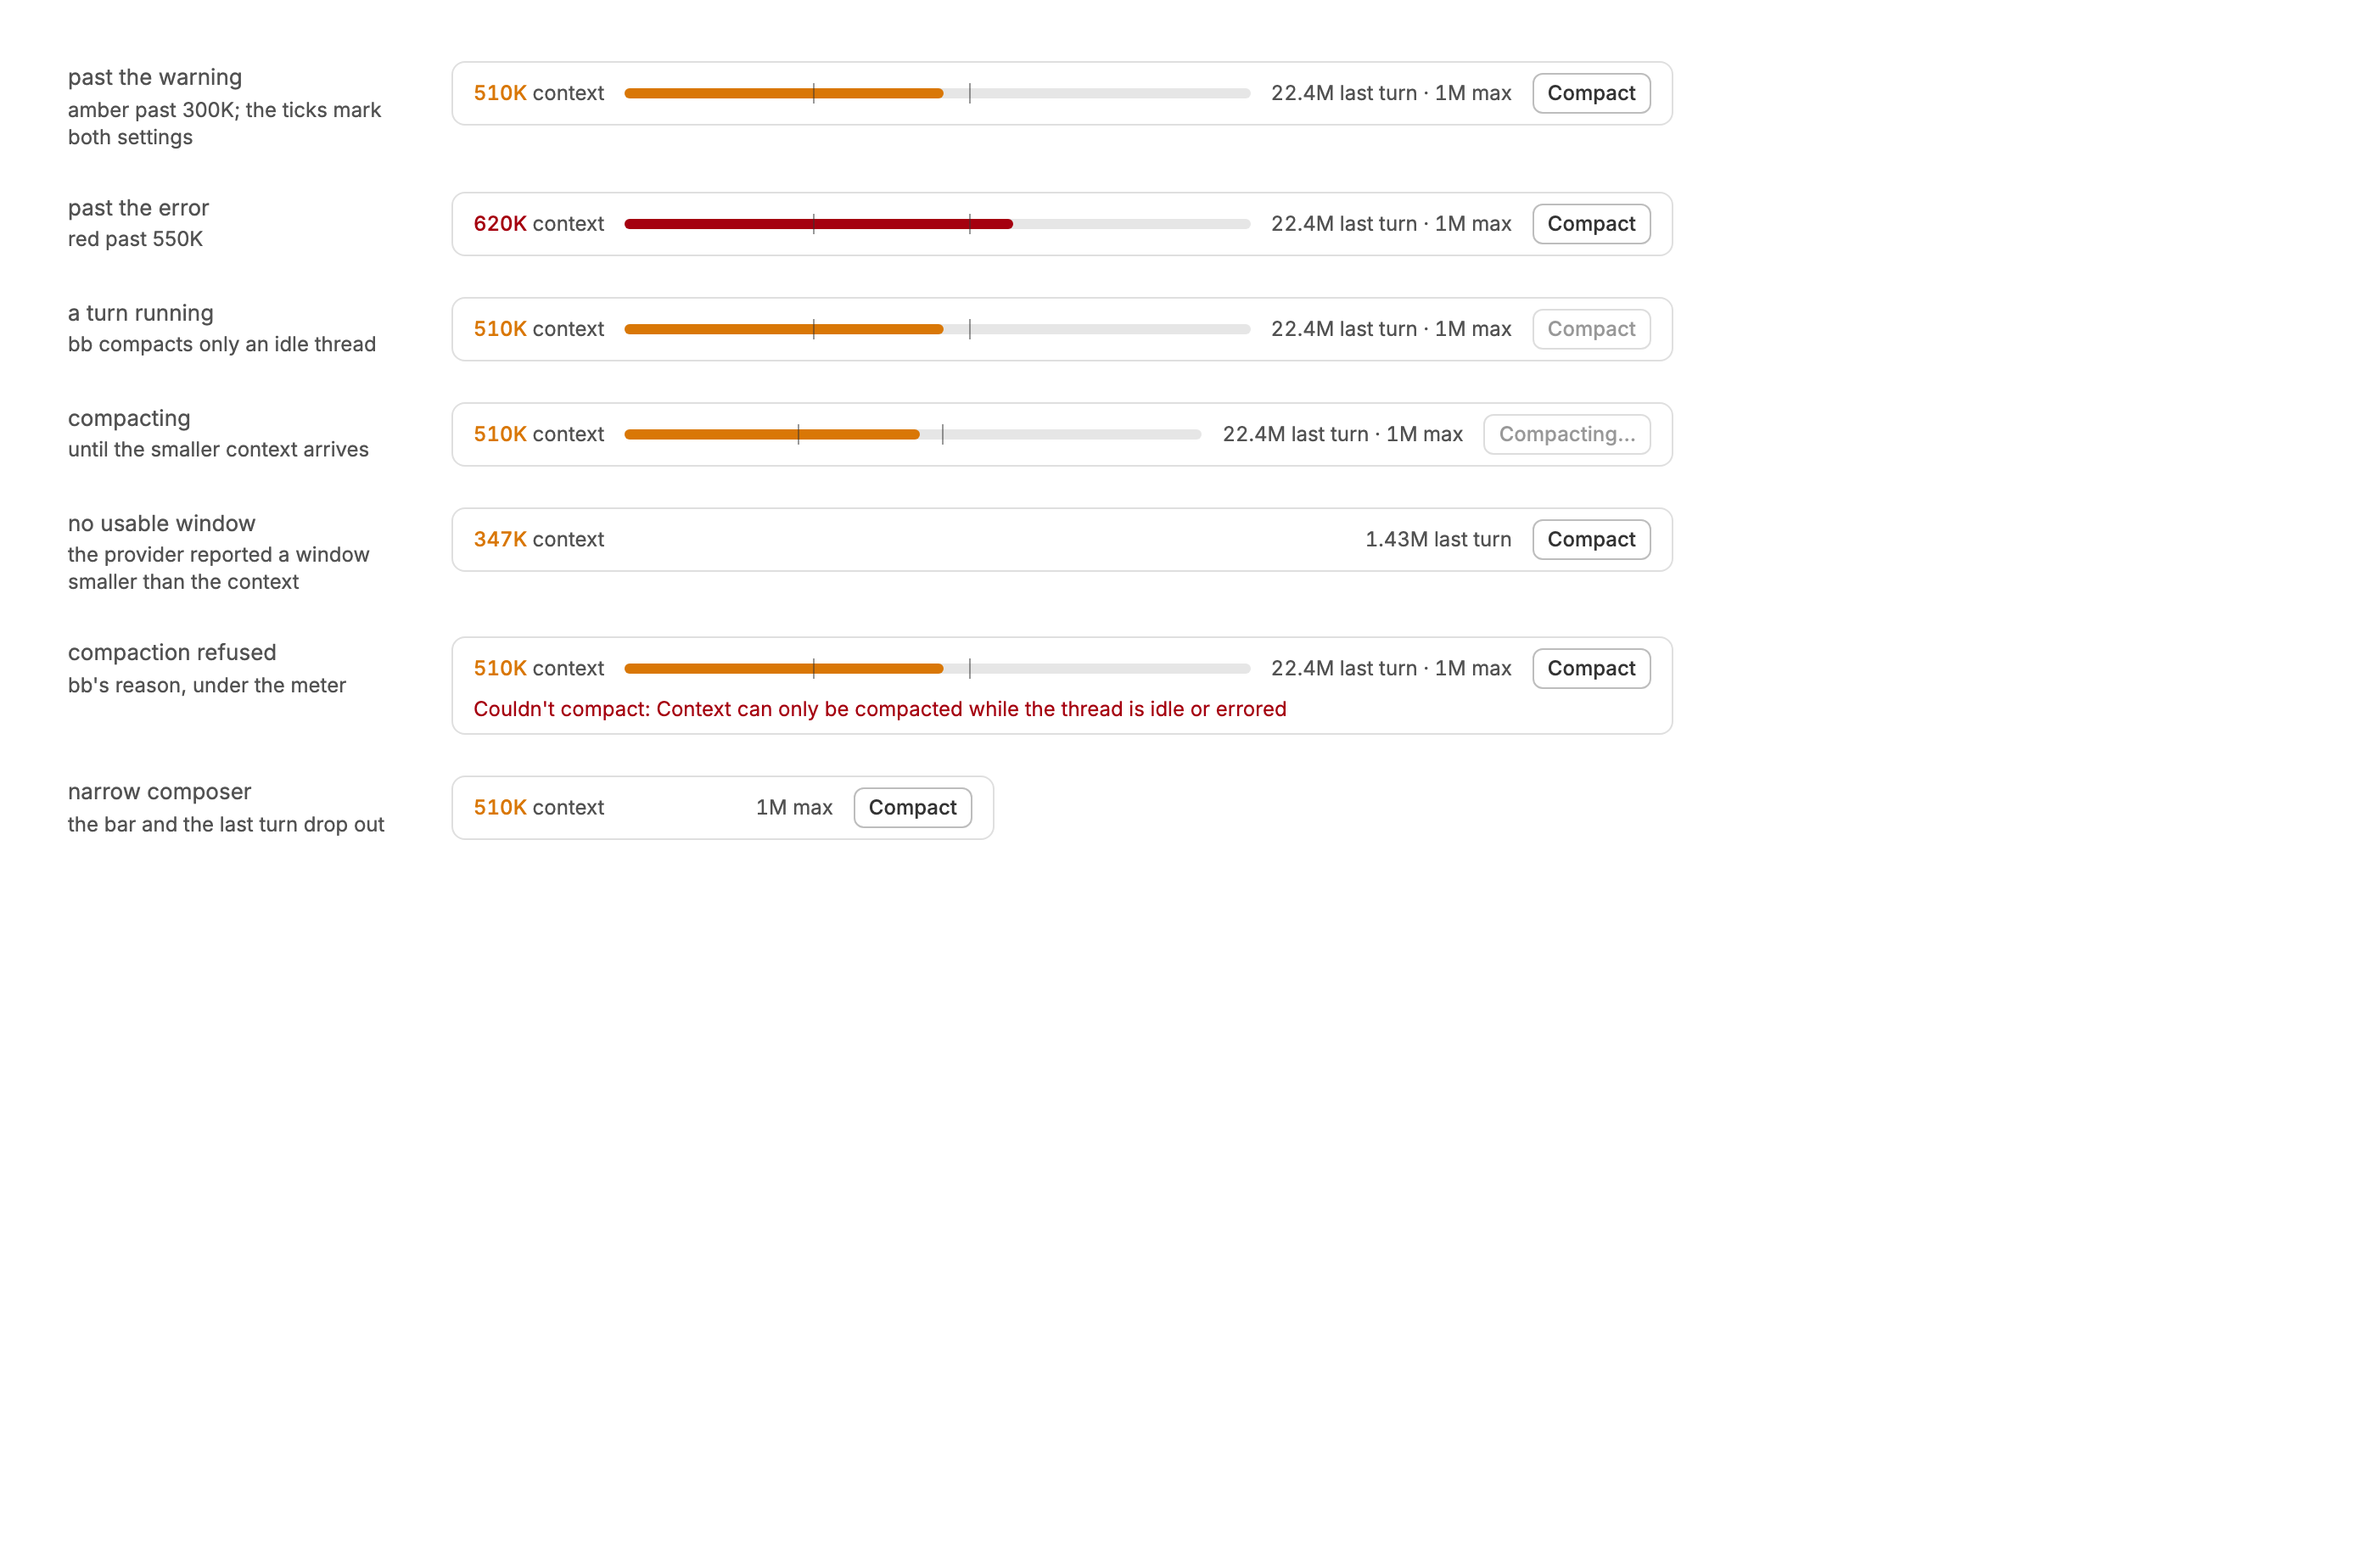
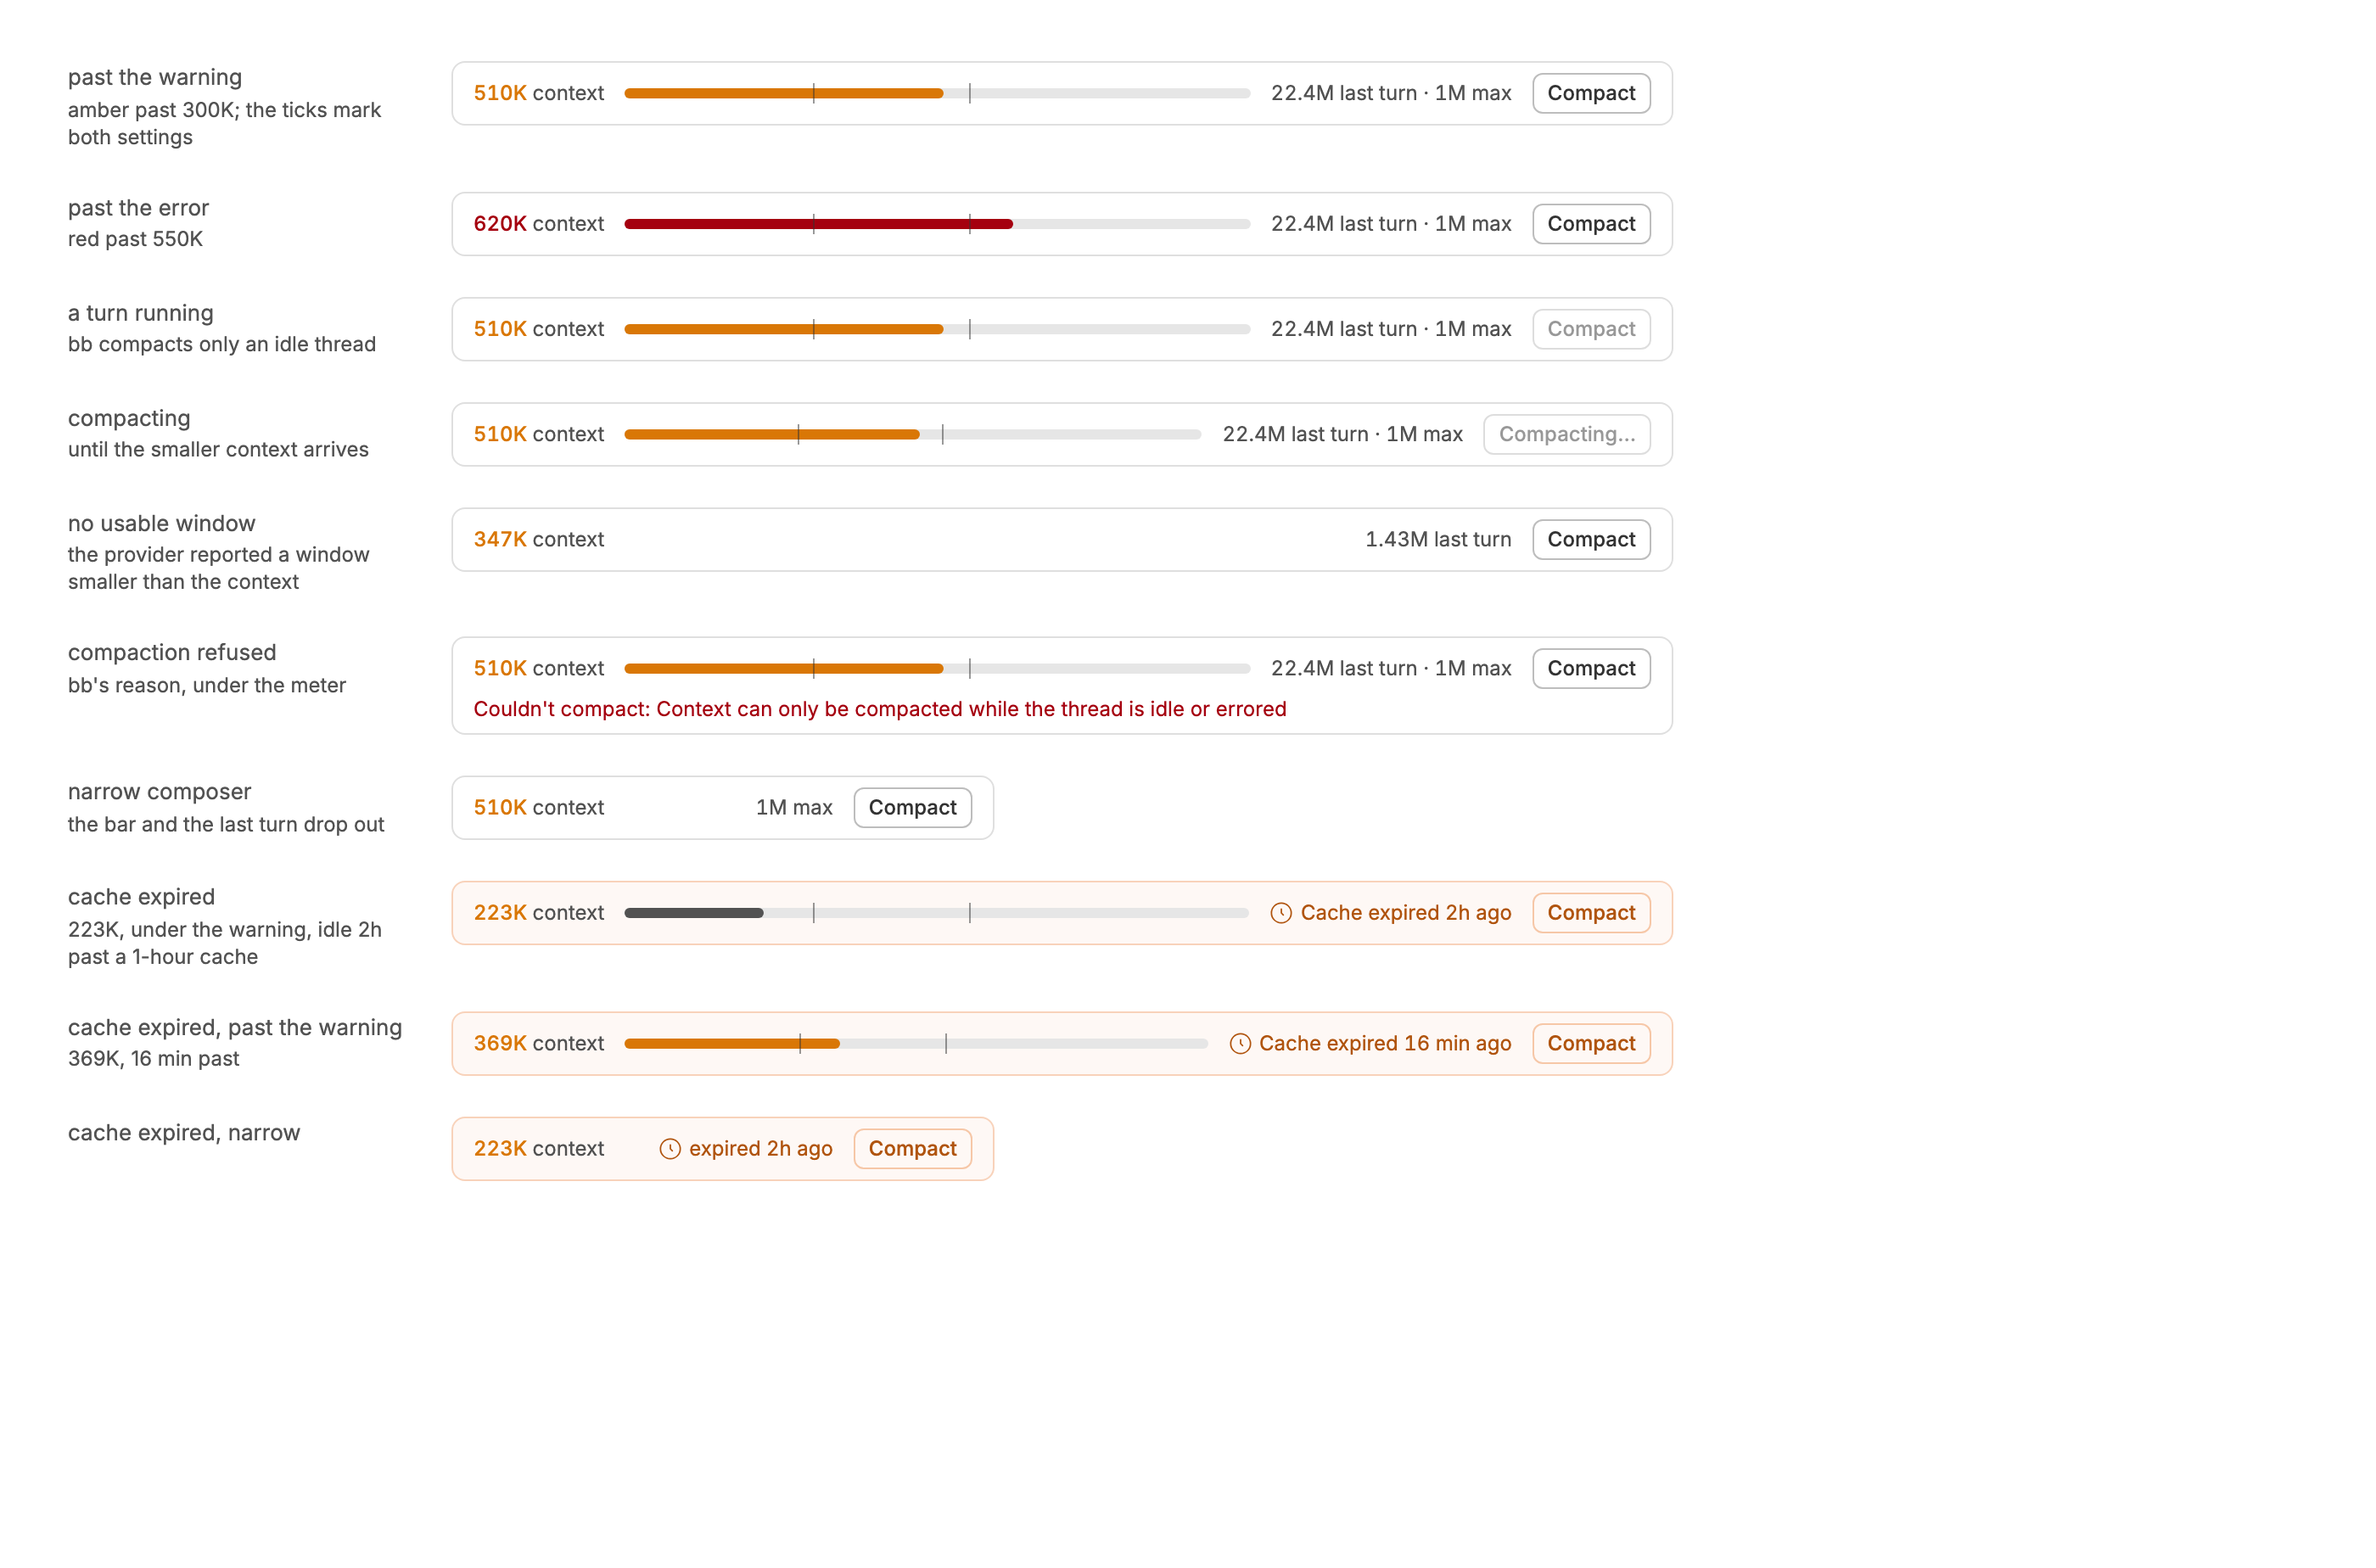
989820d Tokenomics: show the context meter once an idle thread's prompt cache expires
danielbachhuber/bb-plugins@989820db1442c47873e3ef4f3a0d5b8e44a9f00e

diff --git a/README.md b/README.md
@@ -29,7 +29,7 @@ small history while the visual history is still available.
 | [Super Diff v1](super-diff-v1/README.md) | Review a branch one concern at a time. | 18 stories |
 | [sweep-ui](sweep-ui/README.md) | The list Issue Sweep, PR Sweep, and Review Sweep draw each tab with: summary squares, rows ordered Now, Next, and Later, and a stage track. | 3 stories |
 | [Thread Overview](thread-overview/README.md) | A band under each thread's header saying what the thread is for, what has been done so far, and which step it is on, written by the agent as it works and edited by you in place. | 1 story |
-| [Tokenomics](tokenomics/README.md) | See what your threads cost in tokens and time, and whether your subscription's session and weekly limits will last until they reset. | 26 stories |
+| [Tokenomics](tokenomics/README.md) | See what your threads cost in tokens and time, and whether your subscription's session and weekly limits will last until they reset. | 27 stories |
 | [Weekly Review](weekly-review/README.md) | One page of what you actually did this week, gathered at 7am and 1pm on weekdays, sorted into workstreams by rules you refine, and set against the priorities in last week's entry, to write the journal entry from. | 8 stories |
 
 Each directory is a plugin or a shared package, named for the first part of

diff --git a/tokenomics/README.md b/tokenomics/README.md
@@ -78,9 +78,15 @@ The button where bb draws it, in a thread header's action row, with its summary 
 
 ### Context meter states
 
-The meter above a thread's composer once its context passes the warning setting, 300K tokens here, and red past the error setting, 550K, with a button that compacts the thread.
+The meter above a thread's composer once its context passes the warning setting, 300K tokens here, and red past the error setting, 550K, with a button that compacts the thread. It also shows, tinted amber, once a thread of 100K or more sits idle past its prompt cache.
 
 ![Context meter states](page--context-meter-states.png)
+
+### Cache expired in thread
+
+A thread at 223K, under the warning, that sat idle two hours past its prompt cache: the meter shows, tinted amber, so the next message can compact first.
+
+![Cache expired in thread](page--cache-expired-in-thread.png)
 
 ### Thread with meter
 
